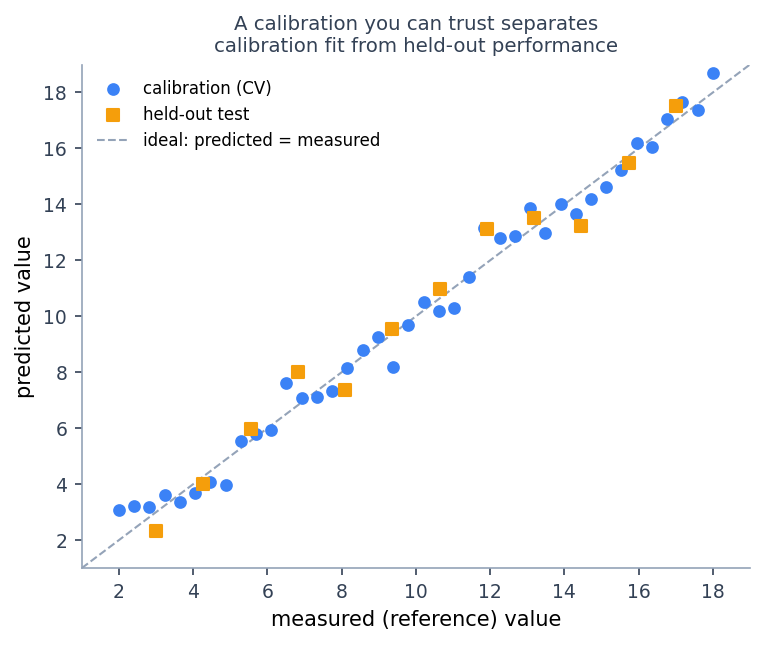
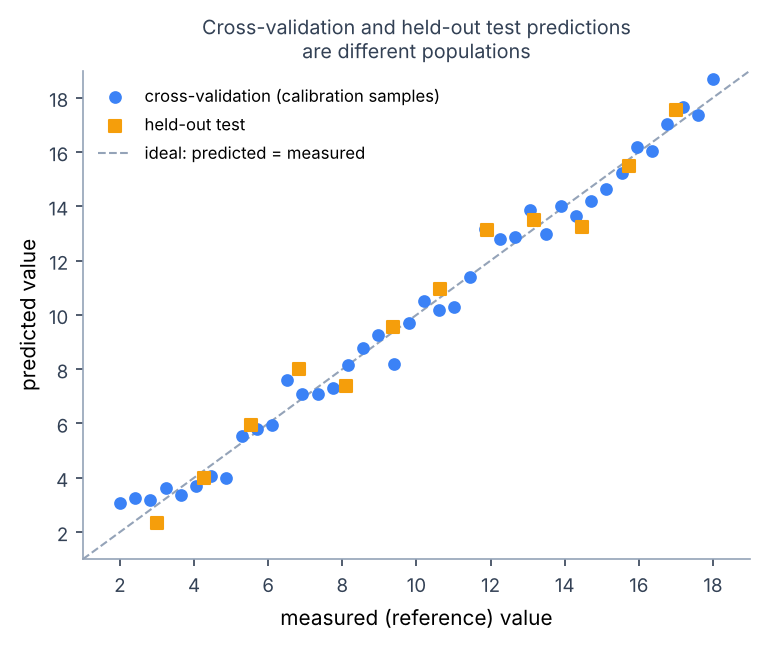
docs: separate CV from calibration fit, scope dataset switching, drop timing
Review follow-up to #129 and Spectra-Scientific-LLC/spectra#1343; identical to the monorepo package change.

- PLS figure and caption use one meaning: cross-validation predictions for
  the calibration samples, against held-out test predictions. The caption
  says a calibration fit is a different, more optimistic population, and
  that differing scatter can reflect population differences (range, batch,
  instrument condition, reference precision), not only overfitting. The
  figure is regenerated from tools/generate_docs_figures.py.
- Build a Workflow on the Canvas: the Inspector's Dataset list exists only
  for Collection Load, the only source node in Add Nodes. File Load, Load
  Group and NIST Library sources get explicit replace-or-restart steps. The
  same claim on Data Import is scoped the same way.
- PCA: a noisy-looking loading suggests possible noise or an artifact; its
  appearance alone does not show whether a component is chemical (bullet
  and caption).
- Local onboarding: remove the "30 minutes" nav label and summary claim,
  restoring #1342's untimed title. The page URL is unchanged.

Claude-Session: https://claude.ai/code/session_01UMAgtd8PkRLHxEsB8Bw3Qv

diff --git a/tools/generate_docs_figures.py b/tools/generate_docs_figures.py
@@ -170,13 +170,13 @@ def snv_before_after() -> None:
 
 
 def pls_calibration_fit() -> None:
-    """Predicted vs measured with calibration and held-out samples separated."""
+    """Predicted vs measured: cross-validation predictions and held-out test predictions."""
     true = np.linspace(2, 18, 40)
     cal = RNG.normal(true, 0.55)
     true_test = np.linspace(3, 17, 12)
     test = RNG.normal(true_test, 0.85)
     fig, ax = plt.subplots(figsize=(5.2, 4.4), dpi=150)
-    ax.scatter(true, cal, c=ACCENT, s=26, label="calibration (CV)", zorder=3)
+    ax.scatter(true, cal, c=ACCENT, s=26, label="cross-validation (calibration samples)", zorder=3)
     ax.scatter(true_test, test, c=WARM, s=34, marker="s", label="held-out test", zorder=3)
     lim = (1, 19)
     ax.plot(lim, lim, color=MUTED, linewidth=1.0, linestyle="--", label="ideal: predicted = measured")
@@ -184,7 +184,7 @@ def pls_calibration_fit() -> None:
     ax.set_ylim(lim)
     ax.set_xlabel("measured (reference) value")
     ax.set_ylabel("predicted value")
-    ax.set_title("A calibration you can trust separates\ncalibration fit from held-out performance", fontsize=9.5, color=INK)
+    ax.set_title("Cross-validation and held-out test predictions\nare different populations", fontsize=9.5, color=INK)
     ax.legend(fontsize=8, frameon=False, loc="upper left")
     _style(ax)
     fig.tight_layout()

diff --git a/docs/workflows/build-a-workflow.md b/docs/workflows/build-a-workflow.md
@@ -7,8 +7,8 @@
     Building and running workflows in Local OSS needs no account or
     subscription.
 
-A workflow is a small directed graph: data enters through a **Data Source**
-node, flows through preprocessing and modeling nodes, and ends at output
+A workflow is a small directed graph: data enters through a source node
+(usually **Collection Load**), flows through preprocessing and modeling nodes, and ends at output
 nodes that produce plots, tables, and saved models. You never write code to
 use it — but everything you build is inspectable, saved, and repeatable.
 
@@ -52,9 +52,11 @@ parameters · 4 Run.*
    the results on screen no longer match it. When the run finishes, select a
    node to see its plots and tables in the Inspector.
 
-A workflow never reads a file directly: the **Data Source** node points at an
-entry in **My Dataset**. Bring data in first — see
-[Data Import](data-import.md) — then bind it here.
+A workflow never reads a file directly. A **Collection Load** node is bound to
+a saved selection in **My Dataset**: bring data in first — see
+[Data Import](data-import.md) — then select the node and choose that selection
+in the Inspector's **Dataset** list. **Collection Load** is the only source node
+offered in **Add Nodes**.
 
 ## Reading the Canvas While It Runs
 
@@ -77,7 +79,7 @@ entry in **My Dataset**. Bring data in first — see
 | I want to… | Do this |
 | --- | --- |
 | Start from a known-good recipe | **Analysis Starter** → pick a template → bind your dataset |
-| Change which dataset a workflow uses | Select the **Data Source** node → change the **My Dataset** entry in the Inspector |
+| Change which dataset a workflow uses | **Collection Load** source: select it and choose another saved selection in the Inspector's **Dataset** list. Other source nodes (File Load, Load Group, NIST Library) come from templates or imported workflows and have no dataset list: add a **Collection Load** node, choose the dataset, connect its outputs where the old source's were, then delete the old source. Or start again from **My Dataset** and open **Analysis Starter**, which binds the current selection |
 | Compare two preprocessing choices | Right-click the sheet tab → **Duplicate**, change one node, run both sheets, then **Compare runs** — see [Compare Results](../chemometrics/comparison-and-promotion.md) |
 | Reuse a workflow on another project | **Export** (top bar) gives a portable workflow file; import it there |
 | Understand what a node does | Select it → Inspector help, or look it up in the [Node Library](../nodes/index.md) |

diff --git a/docs/chemometrics/pca.md b/docs/chemometrics/pca.md
@@ -25,7 +25,7 @@ Principal Component Analysis summarizes variation in a spectral matrix through a
 ## Outputs to Inspect
 
 - **Scores**: sample positions in PC space. Clustering, gradients, and outliers live here.
-- **Loadings**: spectral variables contributing to each PC. A loading that looks like noise or a baseline artifact tells you the PC models an artifact, not chemistry.
+- **Loadings**: spectral variables contributing to each PC. A loading that looks like noise or a baseline artifact suggests the PC may be modeling noise or an artifact; confirm it against the spectra, the scores and the preprocessing before deciding. Appearance alone does not show whether a component is chemical.
 - **Explained variance / scree**: how much variance each PC captures.
 - **Hotelling T² and Q residuals**: T² measures distance *inside* the model plane (an unusual but explained sample); Q measures distance *to* the plane (a sample with structure the model does not capture). A high-Q sample is often the more alarming one — its spectrum does not look like the others at all.
 
@@ -33,8 +33,8 @@ Principal Component Analysis summarizes variation in a spectral matrix through a
 
 *Illustrative synthetic data. Left: a score map — points are samples; clusters,
 gradients, and outliers live here. Right: a loading vector — peaks show which
-spectral regions drive the component; a loading that looks like noise means the
-component models an artifact, not chemistry.*
+spectral regions drive the component. A noisy-looking loading suggests possible
+noise or an artifact; check it against the spectra before drawing a conclusion.*
 
 ## Choosing the Number of Components
 

diff --git a/docs/chemometrics/pls.md b/docs/chemometrics/pls.md
@@ -36,10 +36,15 @@ Partial Least Squares regression models the relationship between spectra and qua
 
 ![Predicted versus measured values](../assets/pls-predicted-vs-measured.png)
 
-*Illustrative synthetic data. The plot to expect from a PLS calibration:
-calibration (cross-validation) predictions in one color, held-out test
-predictions in another, against the ideal line. An honest model shows similar
-scatter in both; a much tighter calibration cloud is an overfitting warning.*
+*Illustrative synthetic data. Cross-validation predictions for the calibration
+samples in one color, predictions for a held-out test set in another, against
+the ideal line. Cross-validation predictions come from models that did not see
+each predicted sample; a calibration fit (predicting the samples the model was
+trained on) is a different, more optimistic population and is not shown. The
+two clouds need not match: test scatter can differ because of overfitting, but
+also because the test samples cover a different range, batch, instrument
+condition or reference-value precision. Compare errors for the population each
+one describes, and keep that population with the metric.*
 
 **VIP scores** rank variables by their contribution to the model; the common rule of thumb treats VIP > 1 as influential. Use VIP to prune or understand a model, not as a band assignment — a high-VIP region can be influential because it corrects an artifact, not because the analyte absorbs there.
 

diff --git a/docs/workflows/data-import.md b/docs/workflows/data-import.md
@@ -111,7 +111,7 @@ A **My Dataset** entry is a named dataset scoped to your project. It collects th
 Because datasets live in the project, not inside a single workflow:
 
 - one dataset can feed **multiple workflows (sheets)** in the same project;
-- you can **duplicate a workflow** and keep the same dataset, or point its Data Source node at a different My Dataset entry;
+- you can **duplicate a workflow** and keep the same dataset, or, when its source is a **Collection Load** node, choose a different saved selection in its Inspector **Dataset** list;
 - your data stays scoped to you (and your project) — it is not shared implicitly.
 
 ## Inspect Before You Model

diff --git a/docs/onboarding/local-30-minutes.md b/docs/onboarding/local-30-minutes.md
@@ -1,7 +1,9 @@
 # Local onboarding
 
 !!! abstract "Summary"
-    Install SpectraSherpa on your own computer and run a first analysis in about 30 minutes: install the app, run a starter PCA workflow on an example dataset, then point it at your own file.
+    Install SpectraSherpa on your own computer and run a first analysis:
+    install the app, run a starter PCA workflow on an example dataset, then point
+    it at your own file.
 
 Use this path when you want SpectraSherpa running on your own machine. You will install the app, add optional extras only if you need them, run a starter PCA workflow, and then point that workflow at your own data.
 
